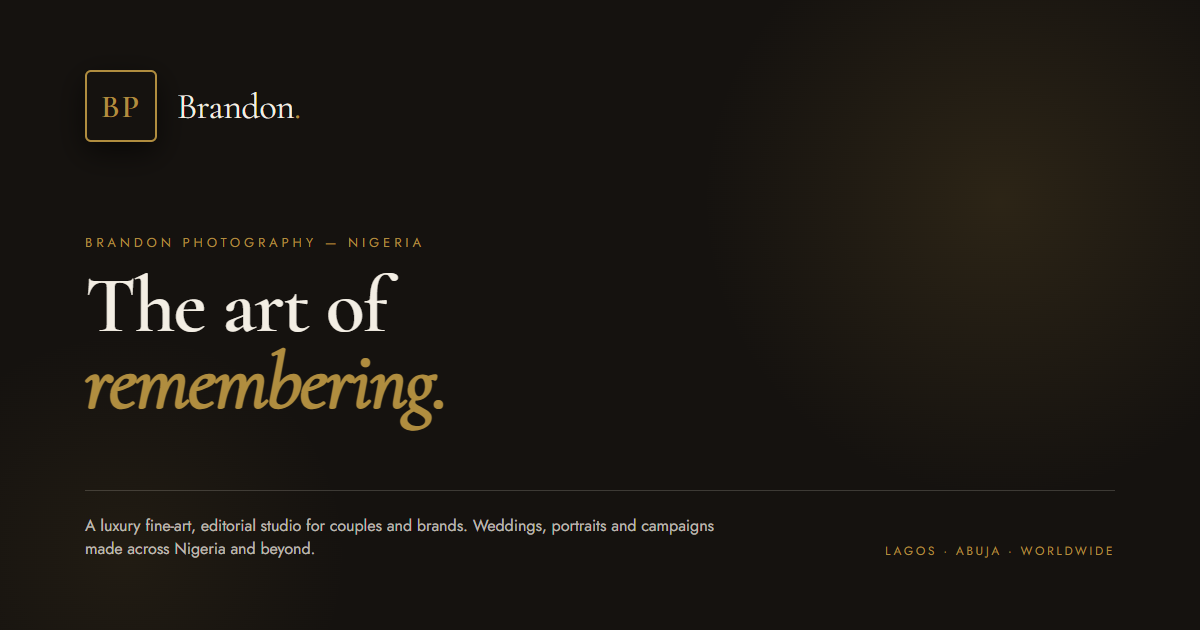
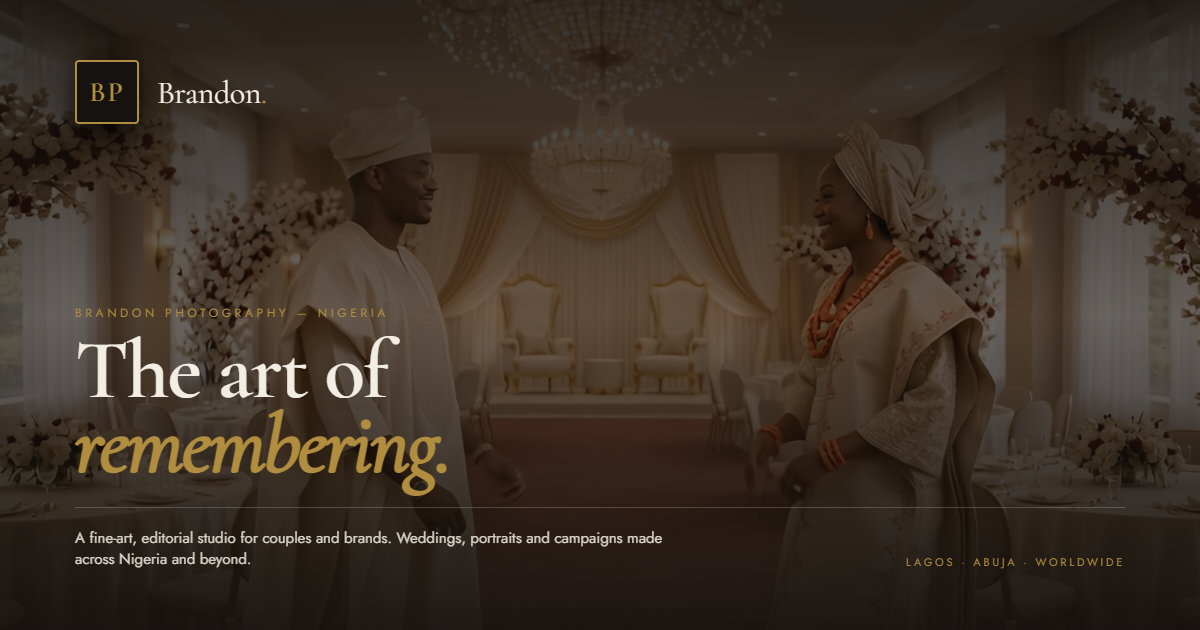
feat(hero): implement staggered startup sequence (video -> header -> text) and update og-image to capture live hero video

diff --git a/app/page.tsx b/app/page.tsx
@@ -433,8 +433,8 @@ export default function Page() {
 
   return (
     <main className="overflow-hidden bg-charcoal text-ivory selection:bg-gold selection:text-charcoal font-body">
-      {/* ── Header / Navigation (Faded Dark Mist Bar with Logo Left & Nav Tabs Right) ── */}
-      <header className="absolute inset-x-0 top-0 z-30 border-b border-ivory/10 dark-mist-header text-ivory transition-all duration-300">
+      {/* ── Header / Navigation (Faded Dark Mist Bar - Step 2 in Sequence) ── */}
+      <header className="seq-header absolute inset-x-0 top-0 z-30 border-b border-ivory/10 dark-mist-header text-ivory transition-all duration-300">
         <div className="mx-auto flex max-w-[1440px] items-center justify-between px-6 py-5 md:px-12 lg:px-16">
           {/* Logo with BP Gold on Black Emblem */}
           <a
@@ -501,6 +501,7 @@ export default function Page() {
 
       {/* ── 1. Hero Section (Full Viewport Screen with Raised Content Position) ── */}
       <section id="top" className="relative flex min-h-screen items-end bg-charcoal text-ivory">
+        {/* Step 1 in Sequence: Ambient Video fades in first */}
         <video
           ref={videoRef}
           src="/hero-video.mp4"
@@ -509,7 +510,7 @@ export default function Page() {
           loop
           playsInline
           preload="auto"
-          className="absolute inset-0 h-full w-full object-cover opacity-85"
+          className="seq-video absolute inset-0 h-full w-full object-cover"
           aria-hidden="true"
         >
           <source src="/hero-video.mp4" type="video/mp4" />
@@ -519,19 +520,21 @@ export default function Page() {
         <div className="absolute inset-0 bg-charcoal/20 mix-blend-multiply" />
         <div className="absolute inset-0 bg-gradient-to-t from-charcoal via-charcoal/20 to-charcoal/10" />
 
-        {/* Title Sequence Content (Lifted Upward for Comfortable Viewport Positioning) */}
+        {/* Step 3 & 4 in Sequence: Title & Action Block */}
         <div className="relative mx-auto w-full max-w-[1440px] px-6 pt-32 pb-24 md:px-12 md:pb-28 lg:px-16">
-          <p className="hero-title-sequence mb-4 font-mono text-[10px] uppercase tracking-[0.3em] text-gold">
-            Brandon Photography — Nigeria
-          </p>
+          <div className="seq-headline">
+            <p className="mb-4 font-mono text-[10px] uppercase tracking-[0.3em] text-gold">
+              Brandon Photography — Nigeria
+            </p>
 
-          <h1 className="hero-title-sequence max-w-5xl font-serif text-[clamp(3.8rem,11vw,10.5rem)] leading-[0.82] tracking-[-0.05em]">
-            The art of<br />
-            <em className="font-serif italic text-gold">remembering.</em>
-          </h1>
+            <h1 className="max-w-5xl font-serif text-[clamp(3.8rem,11vw,10.5rem)] leading-[0.82] tracking-[-0.05em]">
+              The art of<br />
+              <em className="font-serif italic text-gold">remembering.</em>
+            </h1>
+          </div>
 
-          {/* Bottom Bar: Subtitle on Left, CTA + Explore Link on Right */}
-          <div className="hero-title-sequence-delayed mt-8 flex flex-col items-start justify-between gap-6 border-t border-ivory/15 pt-7 md:flex-row md:items-end">
+          {/* Step 4 in Sequence: Subtitle on Left, CTA + Explore Link on Right */}
+          <div className="seq-actions mt-8 flex flex-col items-start justify-between gap-6 border-t border-ivory/15 pt-7 md:flex-row md:items-end">
             <p className="max-w-xl font-body text-sm md:text-base leading-relaxed text-ivory/85">
               A fine-art, editorial studio for couples and brands. Weddings, portraits and campaigns made across Nigeria and beyond.
             </p>

diff --git a/app/globals.css b/app/globals.css
@@ -51,18 +51,42 @@ button { cursor: pointer; }
 .reveal-delay-4 { transition-delay: 0.6s; }
 .reveal-delay-5 { transition-delay: 0.75s; }
 
-/* ── Hero title sequence ── */
-@keyframes hero-fade-in {
-  from { opacity: 0; transform: translateY(20px); }
+/* ── Startup Staggered Sequence (Video -> Header -> Text) ── */
+@keyframes seq-fade-in {
+  from { opacity: 0; transform: translateY(0); }
+  to   { opacity: 0.85; transform: translateY(0); }
+}
+@keyframes seq-slide-down {
+  from { opacity: 0; transform: translateY(-16px); }
   to   { opacity: 1; transform: translateY(0); }
 }
-.hero-title-sequence {
-  opacity: 0;
-  animation: hero-fade-in 1.2s cubic-bezier(0.22, 1, 0.36, 1) 0.8s forwards;
+@keyframes seq-slide-up {
+  from { opacity: 0; transform: translateY(28px); }
+  to   { opacity: 1; transform: translateY(0); }
 }
-.hero-title-sequence-delayed {
+
+/* Step 1: Video fades in first */
+.seq-video {
   opacity: 0;
-  animation: hero-fade-in 1s cubic-bezier(0.22, 1, 0.36, 1) 1.4s forwards;
+  animation: seq-fade-in 1.4s cubic-bezier(0.22, 1, 0.36, 1) 0.1s forwards;
+}
+
+/* Step 2: Header slides down */
+.seq-header {
+  opacity: 0;
+  animation: seq-slide-down 1.1s cubic-bezier(0.22, 1, 0.36, 1) 0.8s forwards;
+}
+
+/* Step 3: Main headline emerges */
+.seq-headline {
+  opacity: 0;
+  animation: seq-slide-up 1.3s cubic-bezier(0.22, 1, 0.36, 1) 1.5s forwards;
+}
+
+/* Step 4: Subtitle & CTA bar glide in */
+.seq-actions {
+  opacity: 0;
+  animation: seq-slide-up 1.1s cubic-bezier(0.22, 1, 0.36, 1) 2.1s forwards;
 }
 
 /* ── Slideshow crossfade ── */
